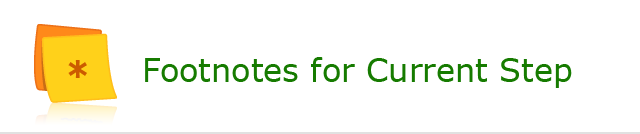
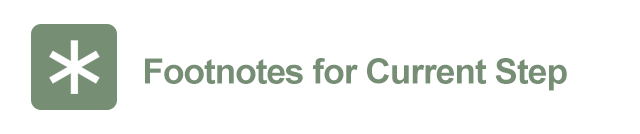
New graphics. Added version label back into About view.

Changed region(s): [[0.2188, 0.4179, 0.9062, 0.6866], [0.0312, 0.1791, 0.1875, 0.8657], [0.0, 0.9851, 1.0, 1.0]]

diff --git a/Classes/AboutVC.m b/Classes/AboutVC.m
@@ -20,7 +20,7 @@
 
 @implementation AboutVC
 
-@synthesize labelVersionInfo, labelBuildInfo, delegate;
+@synthesize labelVersionInfo;
 
 /*
 // Implement viewDidLoad to do additional setup after loading the view, typically from a nib.
@@ -56,14 +56,16 @@
     self.navigationItem.title = @"Info";
     self.labelVersionInfo.text = [NSString stringWithFormat:@"%@ %@", [self getVersionString], [self getBuildString]];
     
-
+//    self.view.layer.shadowColor = [[UIColor blackColor] CGColor];
+//    self.view.layer.shadowOffset = CGSizeMake(1.0f, 1.0f);
+//    self.view.layer.shadowRadius = 3.0f;
+//    self.view.layer.shadowOpacity = 1.0f;
 }
 
 
 - (void)viewDidUnload
 {
     labelVersionInfo = nil;
-    labelBuildInfo = nil;
     [super viewDidUnload];
 
     // Release any retained subviews of the main view.
@@ -79,20 +81,6 @@
 -(NSString *)getBuildString
 {
     return [NSString stringWithFormat:@"Build %@",[[NSBundle mainBundle] objectForInfoDictionaryKey:@"CFBundleVersion"]];
-}
-
-- (IBAction)btnDoneTouchUp:(id)sender {
-    
-    [delegate didDismissModalView];
-
-}
-
-- (IBAction)btnTakeSurveyTouchUp:(id)sender {
-    
-    DebugLog(@"User hit Take Survey from About View.");
-    NSURL *url = [NSURL URLWithString:@"http://www.surveygizmo.com/s3/620161/PTT-Advisor-Survey-Test"];
-    [[UIApplication sharedApplication] openURL:url];
-    
 }
 
 

diff --git a/Classes/AboutVC.h b/Classes/AboutVC.h
@@ -18,22 +18,13 @@
 #import "ModalViewDelegate.h"
 
 
-@interface AboutVC : UIViewController<ModalViewDelegate> {
+@interface AboutVC : UIViewController<ModalViewDelegate>
 
-    IBOutlet UILabel *labelVersionInfo;
-    IBOutlet UILabel *labelBuildInfo;
-    id<ModalViewDelegate> __weak delegate;
-
-}
-
-@property(nonatomic, weak) id<ModalViewDelegate> delegate;
-@property(nonatomic, strong) UILabel *labelVersionInfo;
-@property(nonatomic, strong) UILabel *labelBuildInfo;
+@property(nonatomic, weak) IBOutlet UILabel *labelVersionInfo;
 
 -(NSString *)getVersionString;
 -(NSString *)getBuildString;
 - (IBAction)btnDoneTouchUp:(id)sender;
-- (IBAction)btnTakeSurveyTouchUp:(id)sender;
 - (IBAction)btnReadEulaTouchUp:(id)sender;
 
 
